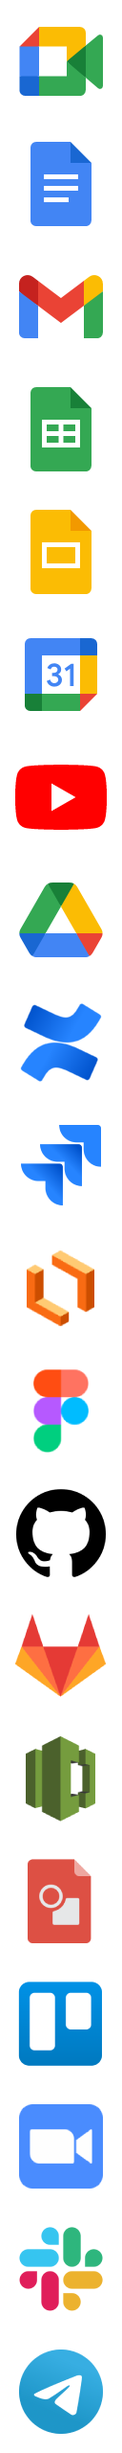
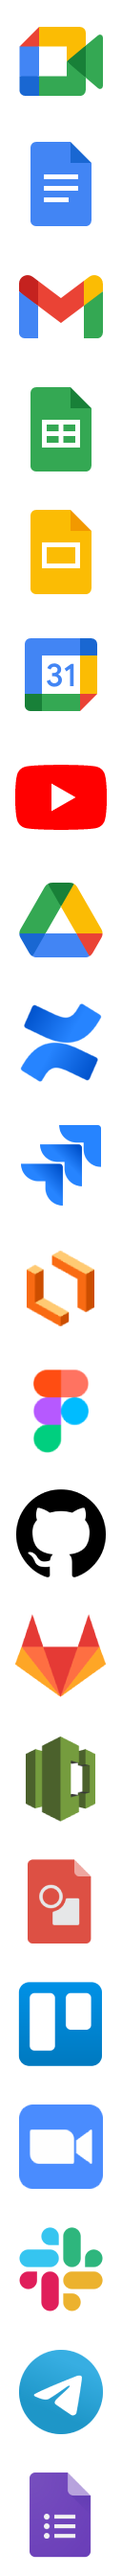
added forms

diff --git a/src/utils/identifyLink.ts b/src/utils/identifyLink.ts
@@ -26,6 +26,7 @@ const rules = {
   zoom: 'zoom.us',
   slack: 'slack.com',
   telegram: 't.me',
+  forms: 'docs.google.com/forms',
 };
 
 export const identifyLink = (href: string): IconName | undefined => {
@@ -94,6 +95,9 @@ export const identifyLink = (href: string): IconName | undefined => {
   }
   if (href.includes(rules.telegram)) {
     return 'telegram';
+  }
+  if (href.includes(rules.forms)) {
+    return 'forms';
   }
 
   return undefined;

diff --git a/src/components/QuickAccessLinksMenu/QuickAccessLinksMenu.tsx b/src/components/QuickAccessLinksMenu/QuickAccessLinksMenu.tsx
@@ -40,6 +40,11 @@ const googleLinks = [
     href: 'https://docs.google.com/drawings',
     title: 'Google Draw',
   },
+  {
+    id: '7',
+    href: 'https://docs.google.com/forms',
+    title: 'Google Forms',
+  },
 ];
 
 const QuickAccessLinksMenu: FC = () => (

diff --git a/src/components/GoogleIcon/GoogleIcon.scss b/src/components/GoogleIcon/GoogleIcon.scss
@@ -70,7 +70,8 @@
     'trello',
     'zoom',
     'slack',
-    'telegram'
+    'telegram',
+    'forms'
   );
   @include generate-icons($icons);
 }

diff --git a/src/types/IconName.ts b/src/types/IconName.ts
@@ -18,4 +18,5 @@ export declare type IconName =
   | 'trello'
   | 'zoom'
   | 'slack'
-  | 'telegram';
+  | 'telegram'
+  | 'forms';
